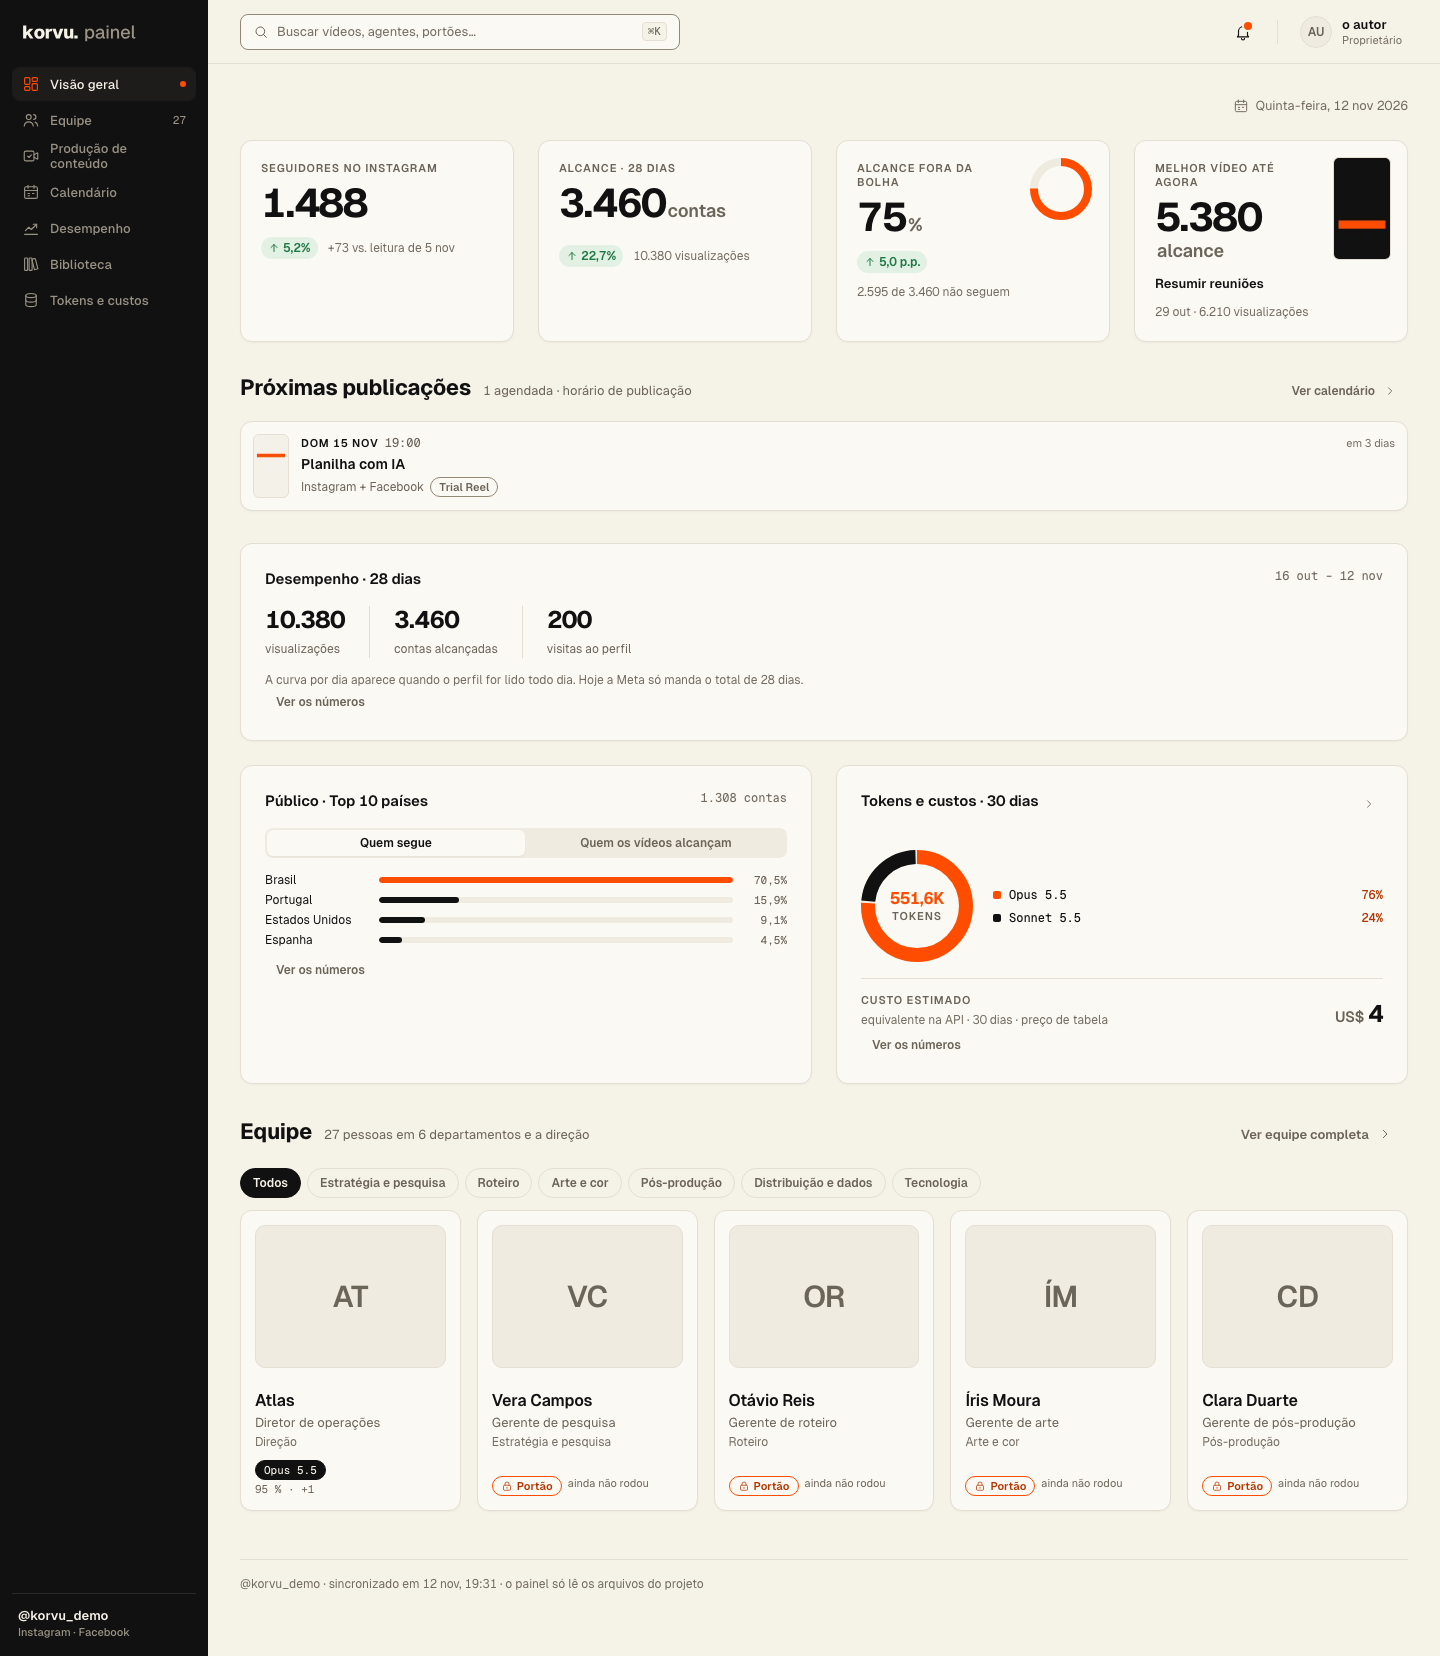
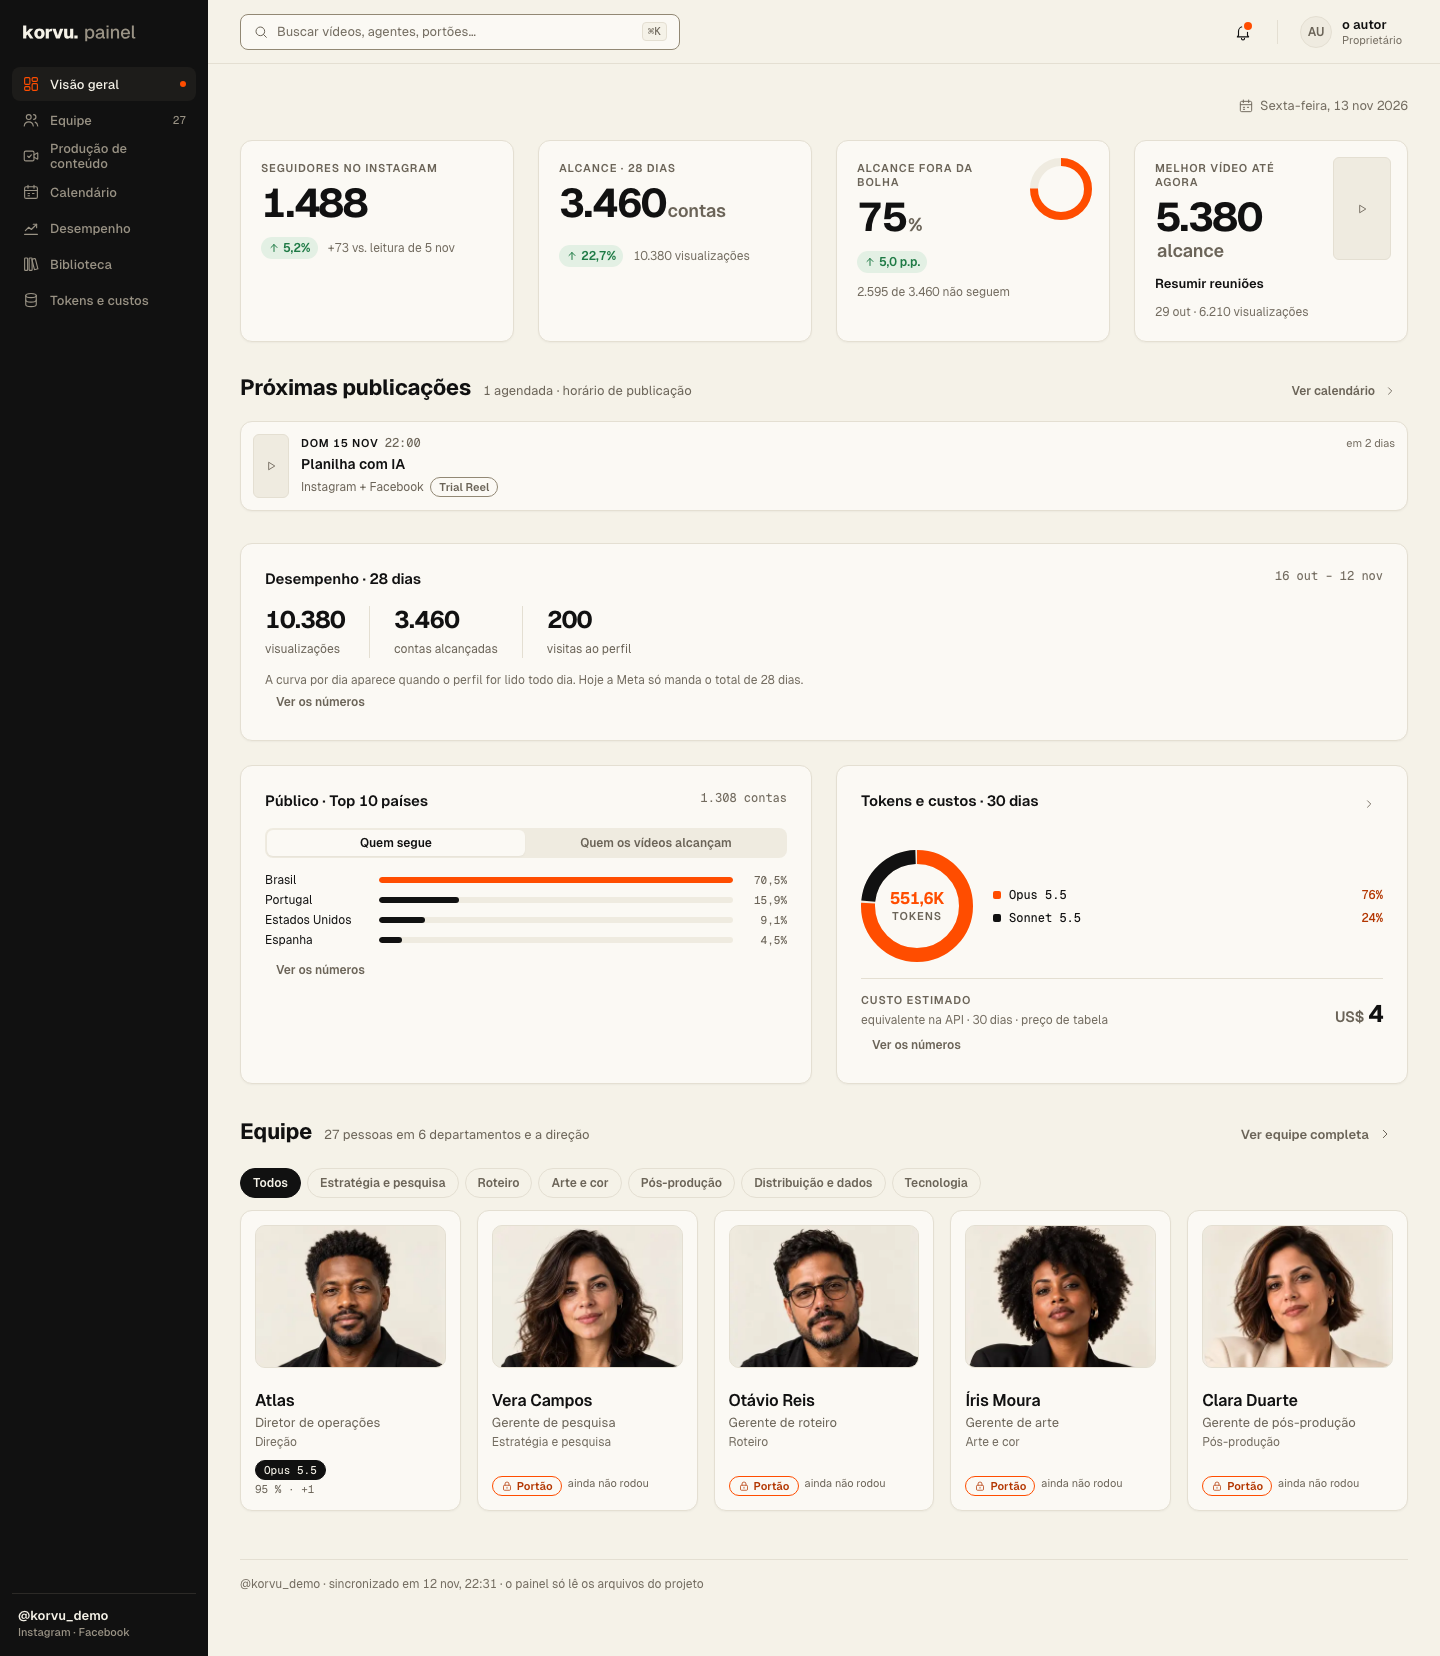
Painel: retratos da equipe (imagens geradas por IA) entram no repositório
As 26 fotos de painel/web/public/equipe/ são geradas por IA, não pessoas reais; o autor liberou o uso
em 13/11. Metadados EXIF/IPTC removidos; o seed da demo passa a apontar agentes.retrato para elas e a
captura da vitrine mostra a equipe com foto. PLANO, README do painel, dossiê e equipe.yaml atualizados.

diff --git a/PLANO.md b/PLANO.md
@@ -12,7 +12,7 @@ histórico do repositório privado tem dados pessoais, então este começa com h
 | `skills-lock.json` | as skills de terceiros (Remotion, Supabase, `watch`, `apple-design`) **por referência** | não copiadas |
 | `scripts/` | publicação, comentários, métricas, portões, PDF, carrossel… | e-mail, conta, domínio e fuso → `.env` (`CONTA_INSTAGRAM`, `TZ_PUBLICACAO`) |
 | `remotion/` | composições do Reel | sem `node_modules`, `out/`, renders e a gravação de demonstração |
-| `painel/` | painel web + Supabase + sincronizador + design | sem `node_modules`, `.next*`, `trabalho/`, `previas/`, `portoes/`, referências e retratos da equipe; conta e fuso configuráveis (`painel/web/src/lib/estudio.ts`); `project_id` próprio |
+| `painel/` | painel web + Supabase + sincronizador + design | sem `node_modules`, `.next*`, `trabalho/`, `previas/`, `portoes/` e referências; conta e fuso configuráveis (`painel/web/src/lib/estudio.ts`); `project_id` próprio |
 | `automacao-meta/` | arquitetura e configuração do app da Meta | URL de webhook antigo e caminho do Mac tirados |
 | `estudio-contexto/` | grafo + busca + MCP só leitura | sem índice, logs e relatórios; perguntas de avaliação trocadas por um exemplo |
 | `docs/` | contratos, GAUNTLET, decisões (genéricas), os dois volumes da documentação | volumes movidos para `docs/estudio/` e `docs/painel/`, regerados pelos geradores, com links entre si |
@@ -27,10 +27,10 @@ histórico do repositório privado tem dados pessoais, então este começa com h
 pessoal), `HANDOFF.md`, `_controle/CONTINUAR.md`, o `docs/decisoes.md` original (virou a versão genérica),
 `.env`, `.mcp.json` original (caminhos locais), toda mídia bruta, o perfil e o dicionário de voz do autor,
 `sobre-autor.md`, `referencias-criadores.md`, `00-marca/cor/{amostras,analises,referencias}`, `assets/logo` e
-`assets/logos-terceiros`, efeitos sonoros gerados (`*.mp3`), `painel/web/public/equipe/` (origem das fotos a confirmar),
+`assets/logos-terceiros`, efeitos sonoros gerados (`*.mp3`), as originais em PNG dos retratos (`painel/referencias/`, por peso),
 `scripts/linkedin.py` e o job `uk.korvu.linkedin` (dependem da pasta pessoal `linkedin/`), `scripts/limpeza/`, a
 pasta `painel/design/telas/` inteira (maquetes e especificações por tela tinham números reais do perfil, consumo de
-IA, temas de vídeos não publicados, quadros do rosto do autor e os retratos da equipe; o design system, os tokens e
+IA, temas de vídeos não publicados, quadros do rosto do autor e os retratos das maquetes; o design system, os tokens e
 os componentes ficam).
 
 O `.gitignore` deixa fora do git as pastas de dados de quem usar o estúdio (`videos/`, `_controle/`, `06-publicar/`…).
@@ -53,5 +53,7 @@ O `.gitignore` deixa fora do git as pastas de dados de quem usar o estúdio (`vi
 - Agentes, comentários e o Volume 2 ainda citam `painel/design/telas/` (saiu do repositório; o `painel/design/README.md` explica).
 - `painel/tests/test_biblioteca_yaml.py` confere o `biblioteca.yaml` contra a maquete da Biblioteca e os vídeos do SEU
   estúdio: sem a maquete, é pulado; não roda no CI.
-- O Volume 2 (`docs/painel/`) ainda cita, no "Instalar", o `@` fixo e os retratos de `web/public/equipe/`; na cópia a
-  conta já vem de `NEXT_PUBLIC_CONTA_INSTAGRAM` e, sem retrato, o painel mostra as iniciais.
+- O Volume 2 (`docs/painel/`) ainda cita, no "Instalar", o `@` fixo; na cópia a conta já vem de
+  `NEXT_PUBLIC_CONTA_INSTAGRAM`.
+- Retratos da equipe (`painel/web/public/equipe/`, 26 × 512 px): imagens geradas por IA, não são pessoas reais; uso
+  liberado pelo autor em 13/11, metadados removidos. As originais em PNG ficaram fora por peso.

diff --git a/painel/README.md b/painel/README.md
@@ -68,7 +68,7 @@ ligado (`bash painel/studio.sh liga`), http://127.0.0.1:55323. Tabelas em `migra
 | Testes | `painel/tests/test_sincronizar.py` | `uv run python painel/tests/test_sincronizar.py`: raiz temporária + banco `painel_teste_<pid>` (criado e apagado no 55322) — um caso por mapeamento, `--seco`, porta morta, contrato com os produtores e permissões (o banco do autor só é lido) |
 | Equipe | `painel/equipe.yaml` | nome, cargo, departamento, personalidade — o lado técnico vem de `.claude/agents/*.md` |
 | Câmbio | `painel/cambio.yaml` | taxa do custo de IA em libras (decisão do autor, 23/10): moeda por 1 US$, fonte e data, uma linha por data. Atualizar = acrescentar uma linha (sem mexer em código). Ausente ou inválido = `✗`, nada gravado |
-| Retratos | `painel/web/public/equipe/<id>.jpg` | **foto realista 512×512** (decisão do autor, 23/10), com o `id` de `painel/equipe.yaml`; o app olha a pasta a cada página (`web/src/lib/retratos.ts`) e, sem foto, mostra as iniciais. Originais em `painel/referencias/fotos-equipe-originais/`. O sincronizador grava `agentes.retrato` = `/equipe/<id>.jpg` (o `.jpg` vence; senão `<id>.png`; sem arquivo, NULL = iniciais) |
+| Retratos | `painel/web/public/equipe/<id>.jpg` | **foto realista 512×512 gerada por IA** (não é pessoa real; decisão do autor, 23/10 e 13/11), com o `id` de `painel/equipe.yaml`; o app olha a pasta a cada página (`web/src/lib/retratos.ts`) e, sem foto, mostra as iniciais. As originais em PNG não vêm no repositório público (peso). O sincronizador grava `agentes.retrato` = `/equipe/<id>.jpg` (o `.jpg` vence; senão `<id>.png`; sem arquivo, NULL = iniciais) |
 | Trava "não publicar" | `_controle/nao-publicar.json` (**proposta**, ainda não existe) | `{"descricao", "travas": [{"slug", "motivo", "desde": "AAAA-MM-DD"}]}`, no formato do `_controle/gauntlet-legado.json`; o sincronizador LÊ para a tabela `nao_publicar` (ausente = nenhuma trava; inválido = `✗`). Quem cria e escreve é a sessão coordenadora |
 | App | `painel/web/` | Next.js 15 + TypeScript + Tailwind, design system **"korvu. painel"** (`painel/design/`, copiado sem mudar para `web/src/app/design/`; biblioteca em `web/src/components/`). Chaves só no servidor (`web/.env.local`) |
 

diff --git a/estudio-contexto/ESPECIFICACAO.md b/estudio-contexto/ESPECIFICACAO.md
@@ -213,7 +213,7 @@ Verificação feita com `git ls-files`, `git grep` e `git show`. Nenhum valor fo
 - **Chaves e `.env`:** `.env` e `painel/web/.env.local` não estão versionados nem aparecem no histórico. Verificado.
 - **Dado de contato pessoal no histórico (ação necessária):** o commit inicial (`67c894c`) contém um dado de contato pessoal que foi removido do arquivo atual no commit `71522e0`, mas continua no histórico público. Segundo o autor, o contato não está mais em uso. Removido de `linkedin/perfil-final-2026-10-23.md` e `00-marca/sobre-autor.md`. Ainda aparece em `pyproject.toml` (campo `email` de `authors`), que precisa de decisão antes da publicação.
 - **Dados de conta versionados:** `07-publicados/*/metricas.json`, `_controle/perfil/*.json` e prints em `_controle/perfil/prints-2026-10-17/`. Não verificado se há dado pessoal além de métricas.
-- **Retratos** em `painel/design/telas/img/retratos/` (10 arquivos). Não verificado se são fotos de pessoas reais.
+- **Retratos** (maquetes e `painel/web/public/equipe/`): imagens geradas por IA, não são pessoas reais (confirmado pelo autor em 13/11).
 
 Itens de publicação, **adiados** (não bloqueiam o projeto interno). Ordem quando retomar:
 

diff --git a/docs/painel/dossie/dossie.md b/docs/painel/dossie/dossie.md
@@ -500,9 +500,8 @@ Fontes: `painel/iniciar.sh`, `painel/README.md` ("Rodar", "Sincronização autom
    rodei, por limite).
 3. Como o `web/.env.local` é preenchido pela primeira vez: nenhum script do painel o cria; o passo 3 da instalação é
    dedução a partir de `lib/db.ts` e do `README.md`. O arquivo não foi lido.
-4. Origem das fotos da equipe (`web/public/equipe/*.jpg`, 26 arquivos): o `README.md` diz "foto realista 512×512" com
-   originais em `painel/referencias/fotos-equipe-originais/`; o `equipe.yaml` fala em "ilustração editorial gerada pelo
-   painel". Não confirmei se são imagens geradas por IA.
+4. ~~Origem das fotos da equipe~~ — resolvido em 13/11: as 26 fotos de `web/public/equipe/` são imagens geradas por IA
+   (não são pessoas reais), de uso livre no projeto por decisão do autor.
 5. Resultado do `test_sincronizar.py` (não rodado).
 6. Versões de uv, ffmpeg, Colima e Chrome: não há arquivo que as fixe.
 

diff --git a/docs/painel/site/faltou.md b/docs/painel/site/faltou.md
@@ -20,7 +20,7 @@ fica sem o dado.
    como "não confirmado".
 7. **`test_sincronizar.py`:** não rodado; o resultado aparece como "não rodado", sem número.
 8. **Primeiro `supabase start` aplicando as 18 migrações:** provável, não testado. Marcado assim no site.
-9. **Origem das fotos da equipe** (`web/public/equipe/*.jpg`): o README do painel e o `equipe.yaml` divergem (foto
+9. ~~**Origem das fotos da equipe**~~ — resolvido em 13/11: imagens geradas por IA, não pessoas reais (decisão do autor). Antes: o README do painel e o `equipe.yaml` divergem (foto
    realista × ilustração gerada); o dossiê não confirma se são imagens geradas por IA. Elas aparecem nas capturas.
 
 ## Decisões de desenho que não vêm do dossiê (para o portão conferir)
